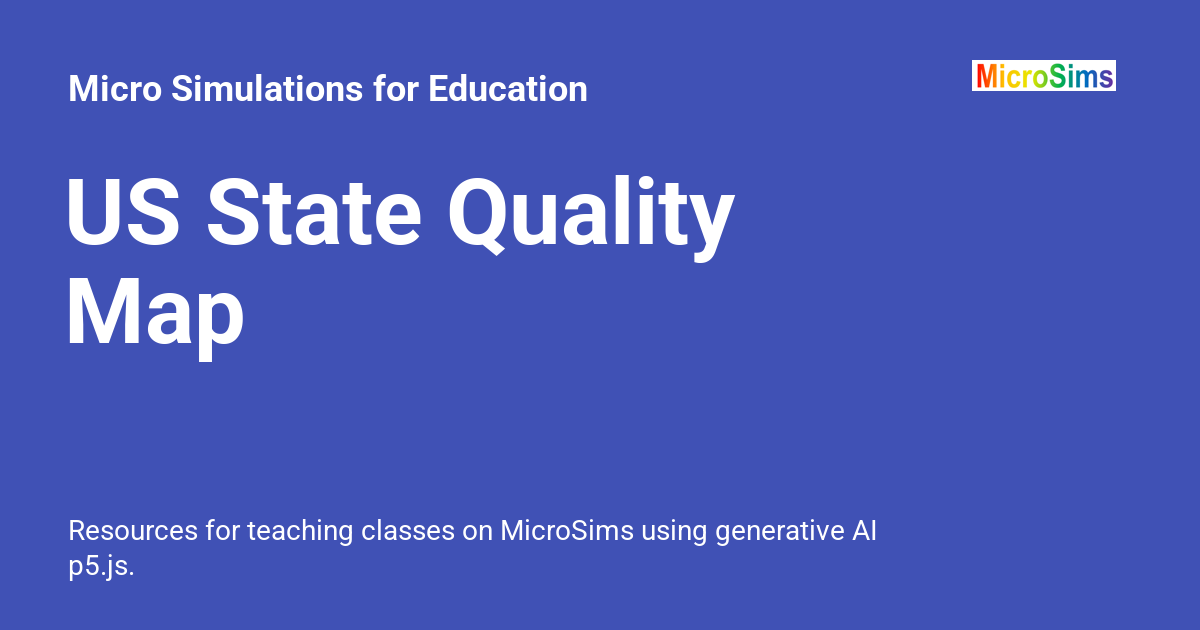
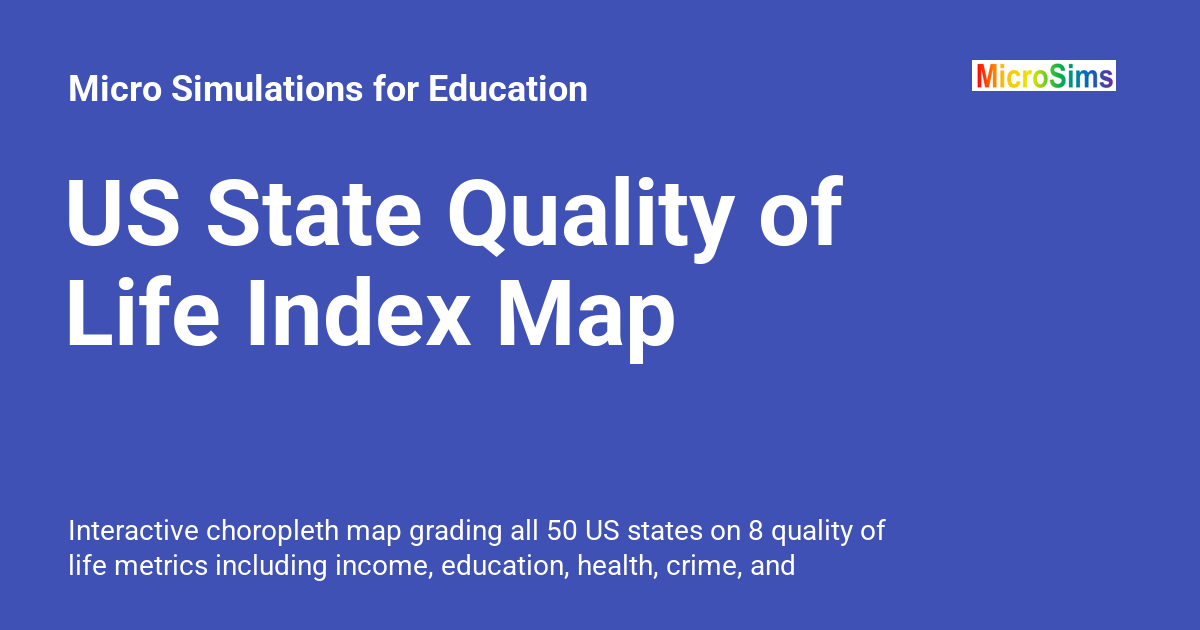
Deployed 21d79a56 with MkDocs version: 1.6.1

diff --git a/sims/us-state-quality-map/index.html b/sims/us-state-quality-map/index.html
@@ -6,7 +6,7 @@
       <meta charset="utf-8">
       <meta name="viewport" content="width=device-width,initial-scale=1">
       
-        <meta name="description" content="Resources for teaching classes on MicroSims using generative AI p5.js.">
+        <meta name="description" content="Interactive choropleth map grading all 50 US states on 8 quality of life metrics including income, education, health, crime, and housing costs.">
       
       
         <meta name="author" content="Dan McCreary">
@@ -26,7 +26,7 @@
     
     
       
-        <title>US State Quality Map - Micro Simulations for Education</title>
+        <title>US State Quality of Life Index Map - Micro Simulations for Education</title>
       
     
     
@@ -70,11 +70,11 @@
       
         <meta  property="og:type"  content="website" >
       
-        <meta  property="og:title"  content="US State Quality Map - Micro Simulations for Education" >
+        <meta  property="og:title"  content="US State Quality of Life Index Map - Micro Simulations for Education" >
       
-        <meta  property="og:description"  content="Resources for teaching classes on MicroSims using generative AI p5.js." >
+        <meta  property="og:description"  content="Interactive choropleth map grading all 50 US states on 8 quality of life metrics including income, education, health, crime, and housing costs." >
       
-        <meta  property="og:image"  content="https://dmccreary.github.io/microsims/assets/images/social/sims/us-state-quality-map/index.png" >
+        <meta property="og:image" content="https://dmccreary.github.io/microsims/state-data.png">
       
         <meta  property="og:image:type"  content="image/png" >
       
@@ -86,11 +86,11 @@
       
         <meta  name="twitter:card"  content="summary_large_image" >
       
-        <meta  name="twitter:title"  content="US State Quality Map - Micro Simulations for Education" >
+        <meta  name="twitter:title"  content="US State Quality of Life Index Map - Micro Simulations for Education" >
       
-        <meta  name="twitter:description"  content="Resources for teaching classes on MicroSims using generative AI p5.js." >
+        <meta  name="twitter:description"  content="Interactive choropleth map grading all 50 US states on 8 quality of life metrics including income, education, health, crime, and housing costs." >
       
-        <meta  name="twitter:image"  content="https://dmccreary.github.io/microsims/assets/images/social/sims/us-state-quality-map/index.png" >
+        <meta name="twitter:image" content="https://dmccreary.github.io/microsims/state-data.png">
       
     
     
@@ -141,7 +141,7 @@
         <div class="md-header__topic" data-md-component="header-topic">
           <span class="md-ellipsis">
             
-              US State Quality Map
+              US State Quality of Life Index Map
             
           </span>
         </div>
